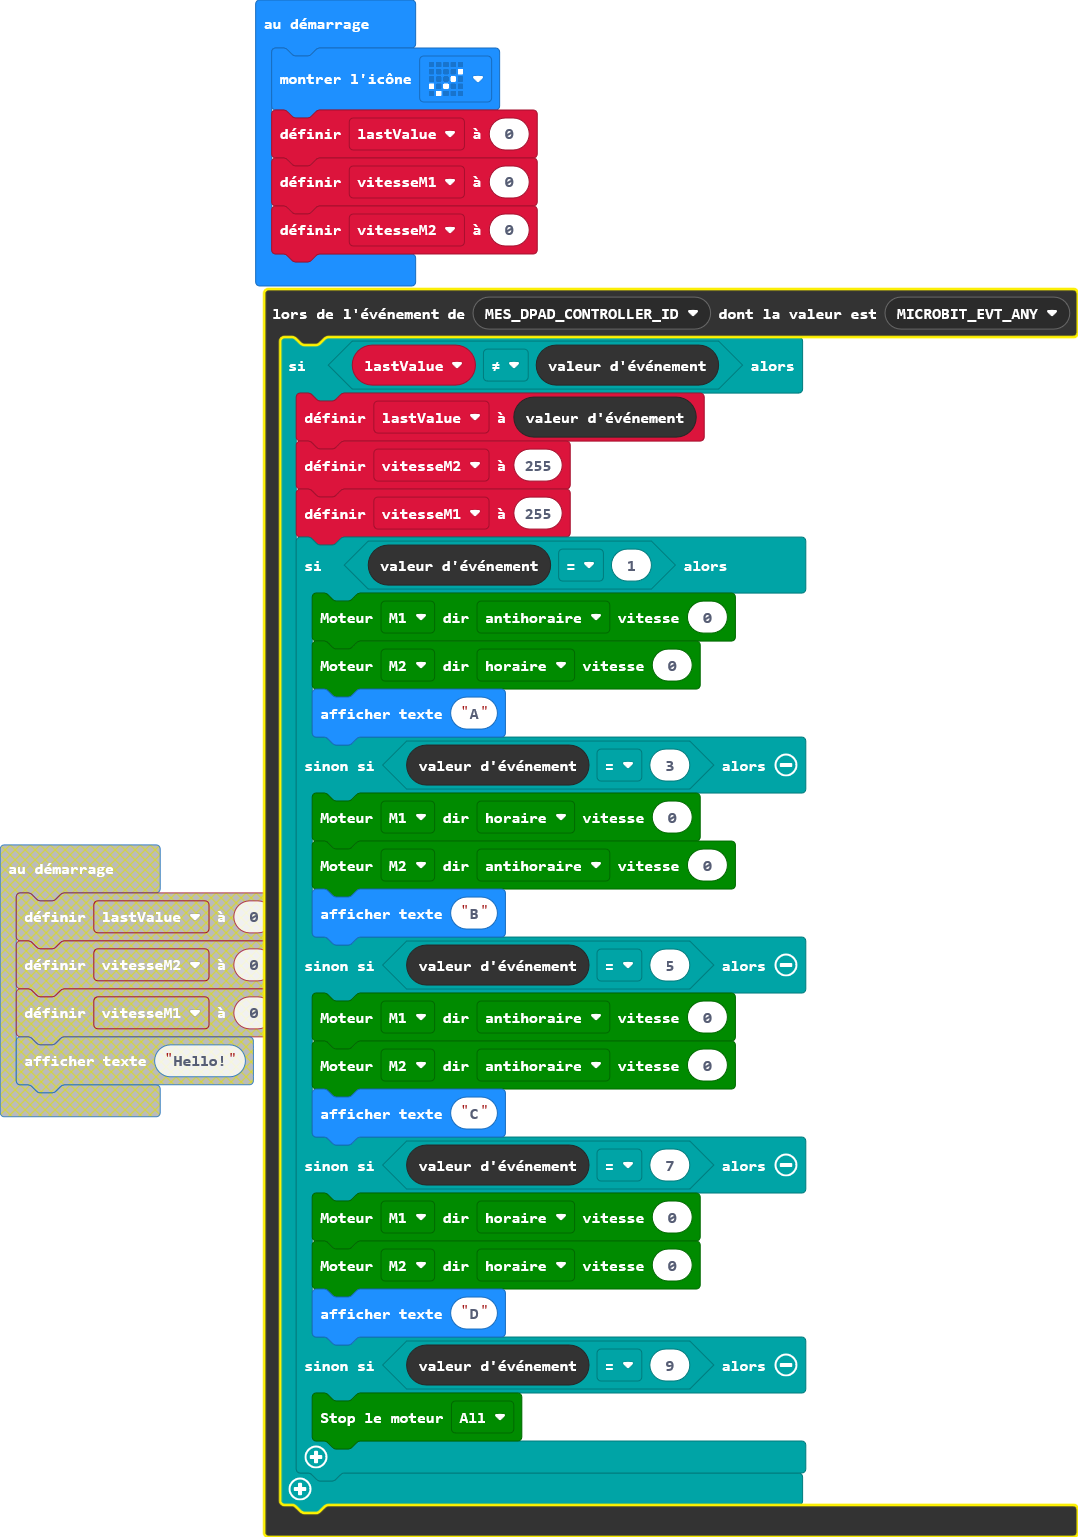
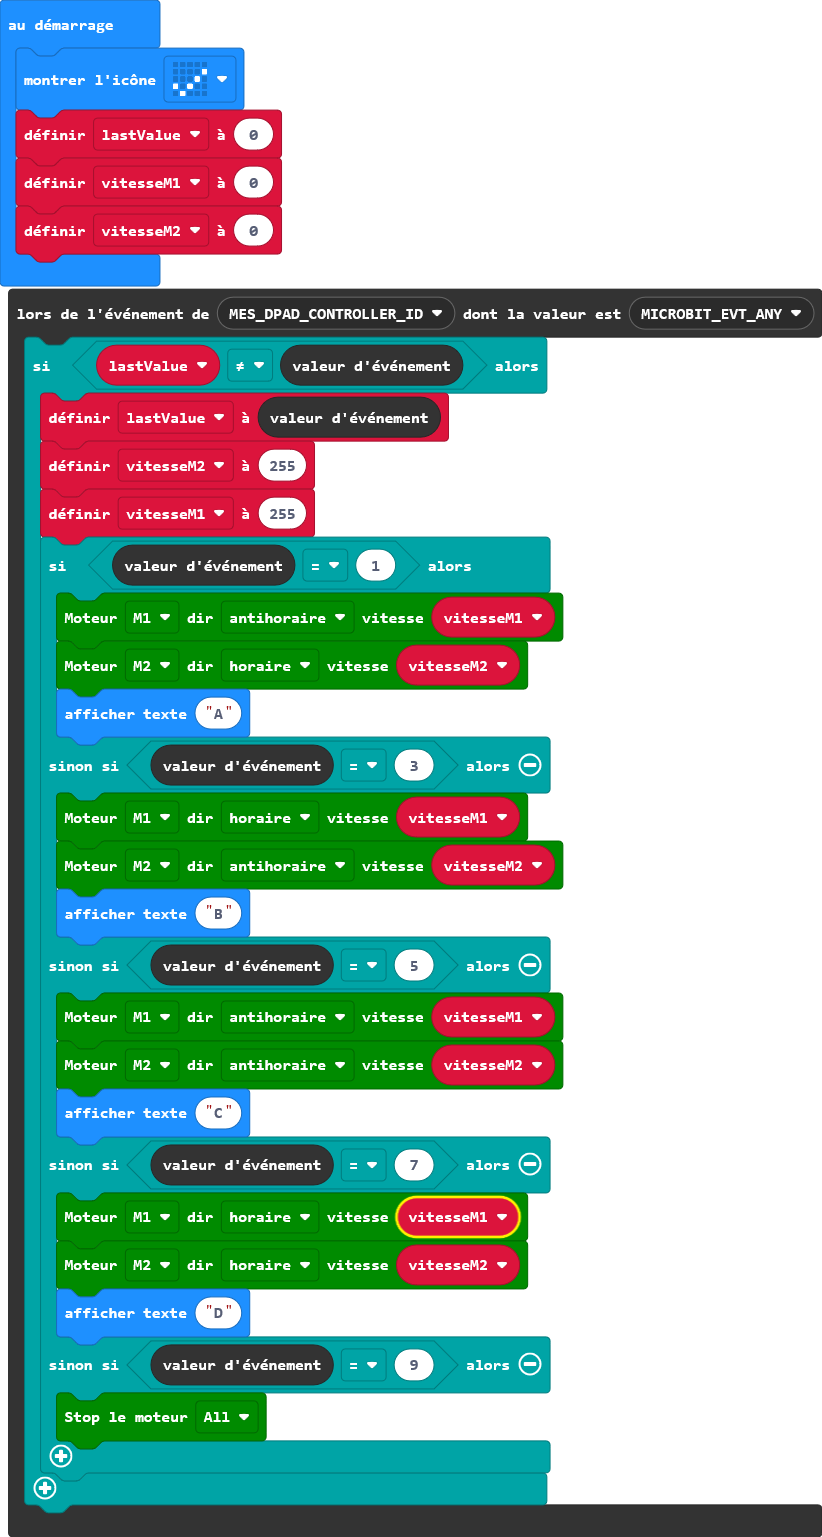
Mise à jour main.blocks, main.ts

diff --git a/main.ts b/main.ts
@@ -4,20 +4,20 @@ control.onEvent(EventBusSource.MES_DPAD_CONTROLLER_ID, EventBusValue.MICROBIT_EV
         vitesseM2 = 255
         vitesseM1 = 255
         if (control.eventValue() == 1) {
-            maqueen.motorRun(maqueen.Motors.M1, maqueen.Dir.CCW, 0)
-            maqueen.motorRun(maqueen.Motors.M2, maqueen.Dir.CW, 0)
+            maqueen.motorRun(maqueen.Motors.M1, maqueen.Dir.CCW, vitesseM1)
+            maqueen.motorRun(maqueen.Motors.M2, maqueen.Dir.CW, vitesseM2)
             basic.showString("A")
         } else if (control.eventValue() == 3) {
-            maqueen.motorRun(maqueen.Motors.M1, maqueen.Dir.CW, 0)
-            maqueen.motorRun(maqueen.Motors.M2, maqueen.Dir.CCW, 0)
+            maqueen.motorRun(maqueen.Motors.M1, maqueen.Dir.CW, vitesseM1)
+            maqueen.motorRun(maqueen.Motors.M2, maqueen.Dir.CCW, vitesseM2)
             basic.showString("B")
         } else if (control.eventValue() == 5) {
-            maqueen.motorRun(maqueen.Motors.M1, maqueen.Dir.CCW, 0)
-            maqueen.motorRun(maqueen.Motors.M2, maqueen.Dir.CCW, 0)
+            maqueen.motorRun(maqueen.Motors.M1, maqueen.Dir.CCW, vitesseM1)
+            maqueen.motorRun(maqueen.Motors.M2, maqueen.Dir.CCW, vitesseM2)
             basic.showString("C")
         } else if (control.eventValue() == 7) {
-            maqueen.motorRun(maqueen.Motors.M1, maqueen.Dir.CW, 0)
-            maqueen.motorRun(maqueen.Motors.M2, maqueen.Dir.CW, 0)
+            maqueen.motorRun(maqueen.Motors.M1, maqueen.Dir.CW, vitesseM1)
+            maqueen.motorRun(maqueen.Motors.M2, maqueen.Dir.CW, vitesseM2)
             basic.showString("D")
         } else if (control.eventValue() == 9) {
             maqueen.motorStop(maqueen.Motors.All)
